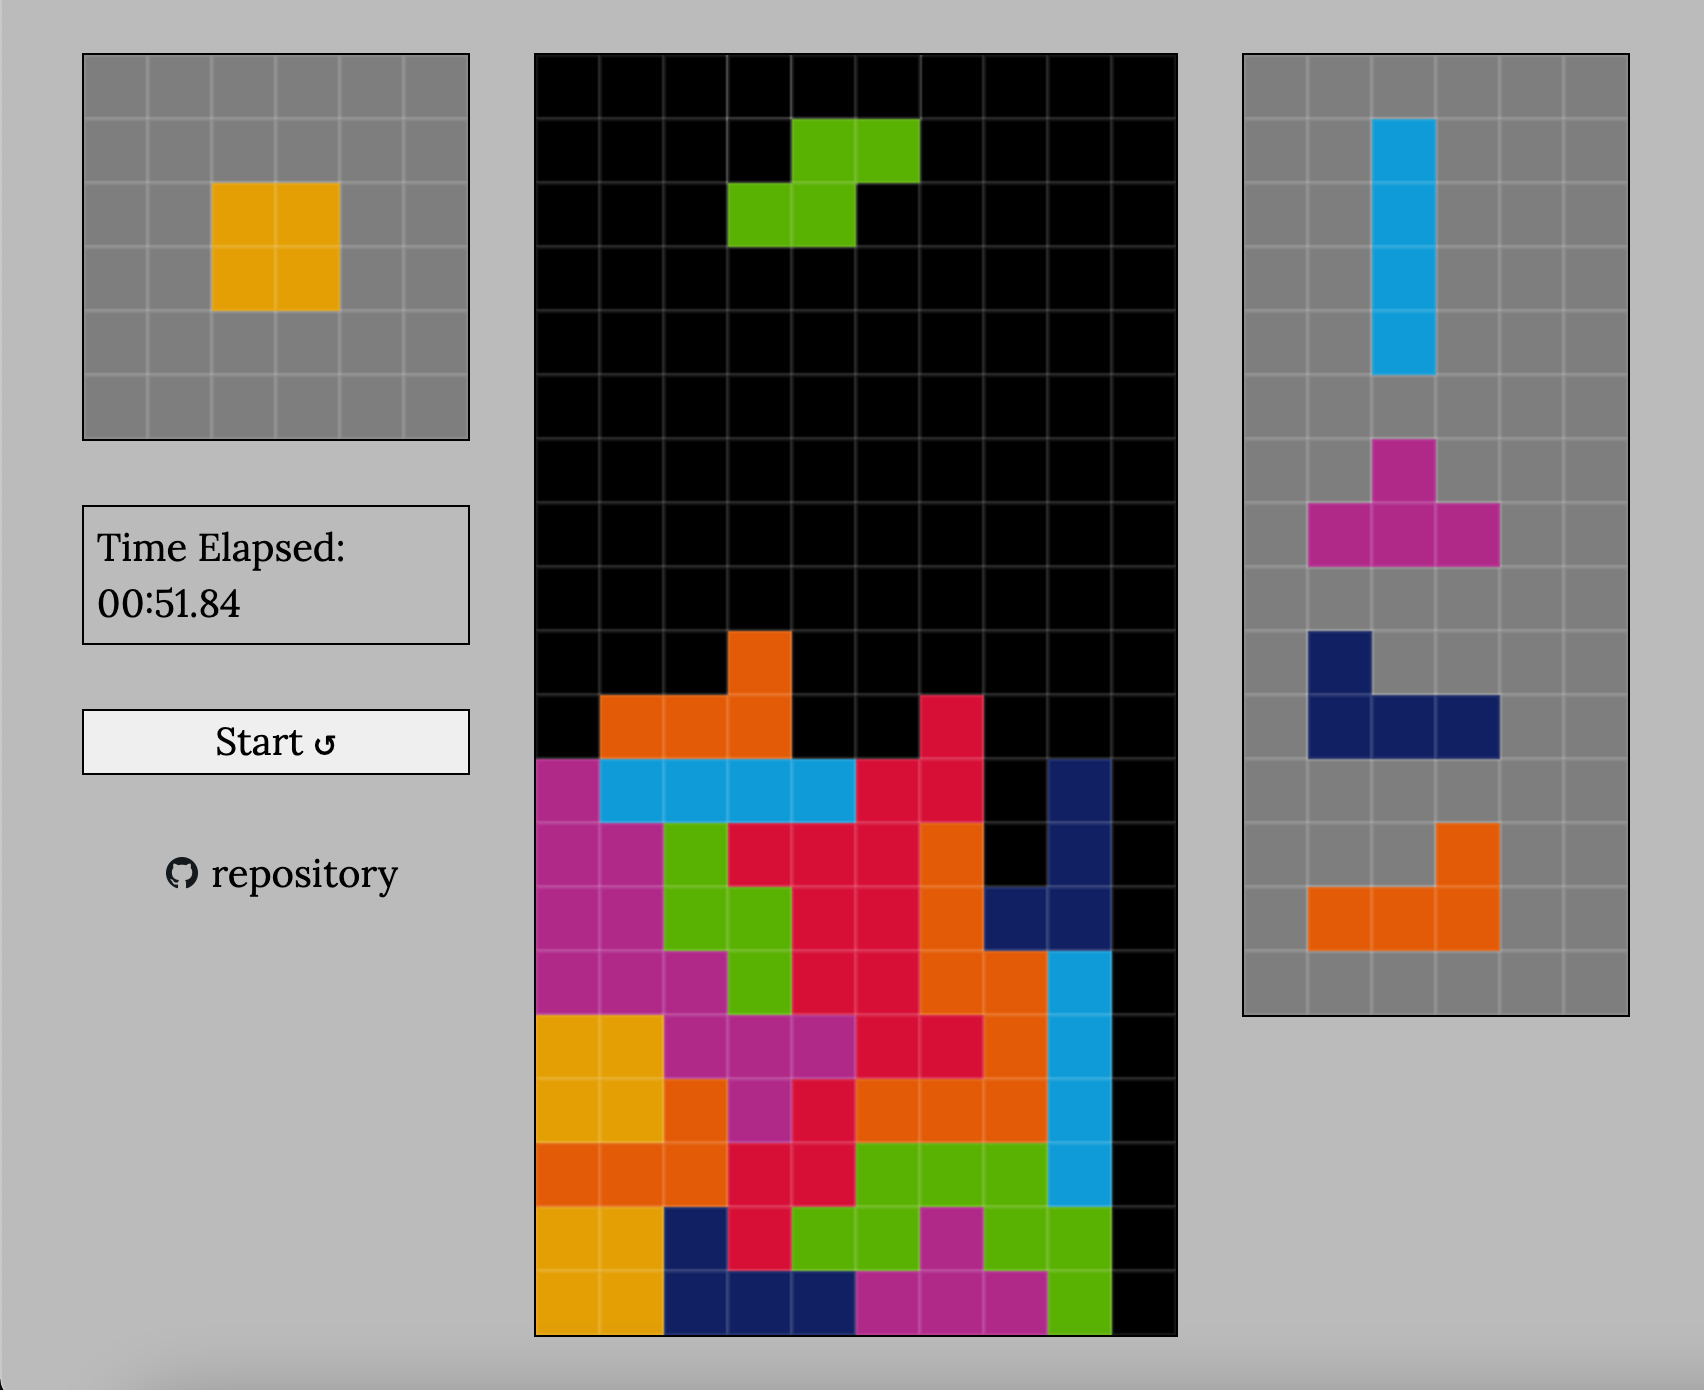
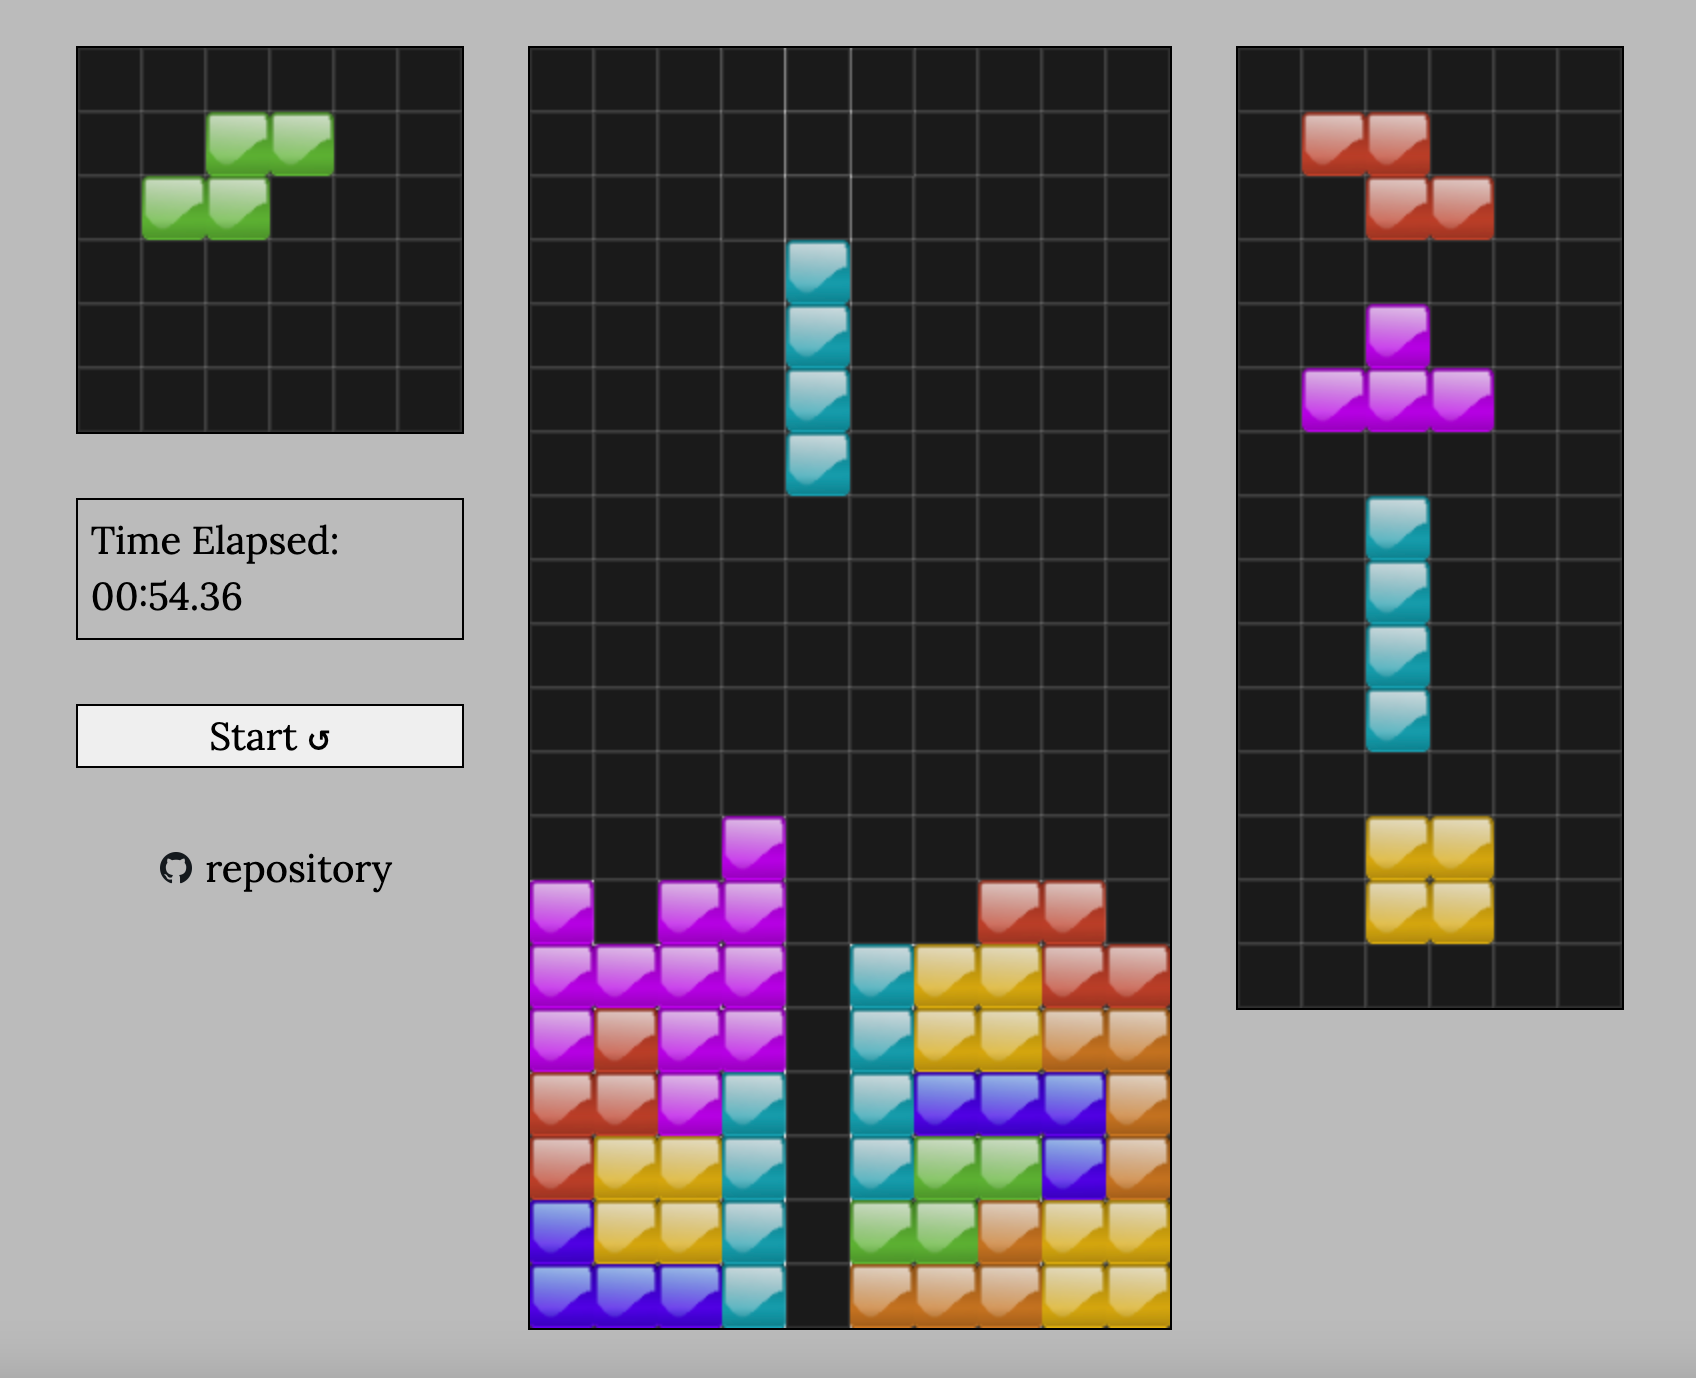
New Theme & Lockdown Timer

diff --git a/src/include/Tetrimino.ts b/src/include/Tetrimino.ts
@@ -2,6 +2,13 @@ import { Unit } from '../Tetriminoes';
 import drawBox from "./drawBox";
 import Game from "./Game";
 
+enum Collision{
+    NIL,
+    WALL_COLLISION,
+    FLOOR_COLLISION,
+    PIECE_COLLISION
+}
+
 class Tetrimino{
     matrix: Unit[][];
     color: string;
@@ -12,6 +19,11 @@ class Tetrimino{
 
     fall: undefined | number;
     softDropMode: boolean = false;
+    lockdownTimer: undefined | number;
+    lockdownMoves: number = 0;
+
+
+    static readonly MAX_LOCKDOWN_MOVES: number = 20;
     static readonly SOFT_DROP_SPEED: number = 0.01;
     static readonly FREEFALL_SPEED: number = 0.5;
 
@@ -37,15 +49,8 @@ class Tetrimino{
                 r[i][j] = this.matrix[this.N - 1 - j][i];
             }
         }
-        for(let i = 0; i < 3 && this.detectCollision(0, 0, r); i++){
-            if(this.x > (this.parentGame.columns/2)){
-                this.moveLeft();
-            }else if(this.x < (this.parentGame.columns/2)){
-                this.moveRight();
-            }
-            if(this.y + this.N >= this.parentGame.rows){
-                this.moveUp();
-            }
+        if(this.detectCollision(0,0,r)){
+            return this;
         }
         this.matrix = Array.from(r, t => [...t]);
         return this;
@@ -57,15 +62,8 @@ class Tetrimino{
                 r[i][j] = this.matrix[j][this.N - 1 - i];
             }
         }
-        for(let i = 0; i < 3 && this.detectCollision(0, 0, r); i++){
-            if(this.x > (this.parentGame.columns/2)){
-                this.moveLeft();
-            }else if(this.x < (this.parentGame.columns/2)){
-                this.moveRight();
-            }
-            if(this.y + this.N >= this.parentGame.rows){
-                this.moveUp();
-            }
+        if(this.detectCollision(0,0,r)){
+            return this;
         }
         this.matrix = Array.from(r, t => [...t]);
         return this;
@@ -134,6 +132,9 @@ class Tetrimino{
         }
     };
     hardDrop() : void{
+        if(this.lockdownTimer){
+            return;
+        }
         if(this.fall){
             window.cancelAnimationFrame(this.fall);
             this.fall = undefined;
@@ -147,7 +148,9 @@ class Tetrimino{
         this.y += i-1;
         this.lockTetrimino();
     };
-    varticalFall() : void{
+    verticalFall() : void{
+        this.clearLockdownTimer();
+        this.haltVerticalFalling();
         let start: number, currTime, lastTime = 0;
         const drop: FrameRequestCallback = (now: number) => {
             if(!start){ start = now; }
@@ -158,7 +161,10 @@ class Tetrimino{
                     this.erase().y++;
                     this.render();
                 }else{
-                    this.lockTetrimino();
+                    this.lockdownTimer = window.setTimeout(() => {
+                        this.lockTetrimino();
+                    }, 1000)
+                    this.lockdownMoves++;
                     return;
                 }
             }
@@ -166,13 +172,41 @@ class Tetrimino{
         };
         this.fall = window.requestAnimationFrame(drop);
     };
-    haltVerticalFalling(){
+    resetLockdownTimer() : void{
+        if(this.lockdownTimer == undefined){
+            return;
+        }
+        clearTimeout(this.lockdownTimer);
+        if(!this.detectCollision(0, 1)){
+            this.erase().y++;
+            this.render();
+            this.verticalFall();
+            this.lockdownTimer == undefined;
+            return;
+        }
+        if(this.lockdownMoves >= Tetrimino.MAX_LOCKDOWN_MOVES){
+            this.lockTetrimino();
+            this.lockdownMoves = 0;
+            return;
+        }
+        this.lockdownMoves++;
+        this.lockdownTimer = window.setTimeout(() => {
+            this.lockTetrimino();
+        }, 1000)
+    };
+    clearLockdownTimer() : void{
+        if(this.clearLockdownTimer != undefined){
+            window.clearTimeout(this.lockdownTimer);
+        }
+    };
+    haltVerticalFalling() : void{
         if(this.fall){
             window.cancelAnimationFrame(this.fall);
             this.fall = undefined;
         }
     };
-    detectCollision(dx: number, dy: number, dt: Unit[][] = this.matrix) : boolean{
+    detectCollision(dx: number, dy: number, dt: Unit[][] = this.matrix) : Collision{
+        let {NIL, FLOOR_COLLISION, WALL_COLLISION, PIECE_COLLISION} = Collision;
         // new cordinates
         let x = this.x + dx;
         let y = this.y + dy;
@@ -181,20 +215,20 @@ class Tetrimino{
             for(let j = x; j < x+this.N; j++){
                 if(dt[i-y][j-x] != Unit.V){
                     if(i >= this.parentGame.rows){
-                        return true;
+                        return FLOOR_COLLISION;
                     }
                     if(j >= this.parentGame.columns || j <= -1){
-                        return true;
+                        return WALL_COLLISION;
                     }
                     if(i >= 0){
                         if(this.parentGame.gridMatrix[i][j] != Unit.V){
-                            return true;
+                            return PIECE_COLLISION;
                         }
                     }
                 }
     
             }
-        return false;
+        return NIL;
     };
     erase(ctxS: string = `main`) : Tetrimino{
         let ctx = this.ctx(ctxS);

diff --git a/src/include/Game.ts b/src/include/Game.ts
@@ -29,10 +29,8 @@ export default class Game {
     holdingDisabled: boolean = false;
     running: boolean = false;
 
-    // static readonly MAX_TETRIMINO_HISTORY: number = 8;
     static readonly NEXT_TETRIMINOES_COUNT: number = 4;
     static readonly VACANT: string = `black`;
-    static readonly SECONDARY_VACANT: string = `rgb(126, 126, 126)`;
 
     constructor(UI: {mainCanvas: HTMLCanvasElement, holdCanvas: HTMLCanvasElement, nextCanvas: HTMLCanvasElement, statsBoard: HTMLDivElement}, columns: number, rows: number, size: number){
         this.mainCanvas = UI.mainCanvas;
@@ -85,7 +83,7 @@ export default class Game {
     renderHoldCanvas() : void{
         for(let i = 0; i < 6; i++){
             for(let j = 0; j < 6; j++){
-                drawBox(this.holdCtx, j, i, this.size, Game.SECONDARY_VACANT);
+                drawBox(this.holdCtx, j, i, this.size, Game.VACANT);
             }
         }
         if(this.tetriminoOnHoldUnit != undefined){
@@ -102,7 +100,7 @@ export default class Game {
         }
         for(let i = 0; i < 15; i++){
             for(let j = 0; j < 6; j++){
-                drawBox(this.nextCtx, j, i, this.size, Game.SECONDARY_VACANT);
+                drawBox(this.nextCtx, j, i, this.size, Game.VACANT);
             }
         }
         let t;
@@ -152,14 +150,15 @@ export default class Game {
     };
     holdTetrimino() : void{
         if(this.holdingDisabled == false){
-            if(this.tetriminoOnHoldUnit){
+            if(this.tetriminoOnHoldUnit != undefined){
                 this.activeTetrimino.erase().haltVerticalFalling();
+                this.activeTetrimino.clearLockdownTimer();
                 let temp = this.activeTetriminoUnit;
                 this.activeTetriminoUnit = this.tetriminoOnHoldUnit;
                 this.tetriminoOnHoldUnit = temp;
                 let { matrix, color } = data.tetriminoes[this.activeTetriminoUnit-1];
                 this.activeTetrimino = new Tetrimino(matrix, color, this);
-                this.activeTetrimino.varticalFall();
+                this.activeTetrimino.verticalFall();
             }else{
                 this.activeTetrimino.erase().haltVerticalFalling();
                 this.tetriminoOnHoldUnit = this.activeTetriminoUnit;
@@ -200,13 +199,13 @@ export default class Game {
         this.renderNextCanvas();
         this.renderHoldCanvas();
         this.initTimer();
-        this.activeTetrimino.varticalFall();
+        this.activeTetrimino.verticalFall();
     };
     next() : void{
         this.holdingDisabled = false;
         this.setActiveTetrimino();
         this.renderNextCanvas();
-        this.activeTetrimino.varticalFall();
+        this.activeTetrimino.verticalFall();
     };
     render() : void{
         for(let i = 0; i < this.rows; i++){

diff --git a/src/include/drawBox.ts b/src/include/drawBox.ts
@@ -1,7 +1,29 @@
+interface IHash {
+    [details: string] : any;
+} 
+
+const box: IHash = {
+    "black" : require('../assets/black.png'),
+    "blue" : require('../assets/blue.png'),
+    "cyan" : require('../assets/cyan.png'),
+    "green" : require('../assets/green.png'),
+    "orange" : require('../assets/orange.png'),
+    "purple" : require('../assets/purple.png'),
+    "red" : require('../assets/red.png'),
+    "yellow" : require('../assets/yellow.png')
+}
+let piece = new Image();
+
 export default function drawBox(ctx: CanvasRenderingContext2D, x: number, y: number, size: number, color: string) : void{
-    ctx.fillStyle = color;
-    ctx.fillRect(x*size, y*size, size, size);
-    ctx.lineWidth = 0.1;
-    ctx.strokeStyle = "white";
-    ctx.strokeRect(x*size, y*size, size, size);
+    if(color == `black`){
+        ctx.fillStyle = `rgb(26,26,26)`;
+        ctx.fillRect(x*size, y*size, size, size);
+        ctx.lineWidth = 0.1;
+        ctx.strokeStyle = "white";
+        ctx.strokeRect(x*size, y*size, size, size);
+    }else{
+        let c = box[color].replace(/^public/, "");
+        piece.src = c;
+        ctx.drawImage(piece, x*size, y*size, size, size);
+    }
 };

diff --git a/src/main.ts b/src/main.ts
@@ -37,12 +37,15 @@ document.addEventListener('keydown', e => {
     switch(e.keyCode){
         case LEFT:
             game.activeTetrimino.erase().moveLeft().render();
+            game.activeTetrimino.resetLockdownTimer();
             break;
         case UP:
             game.activeTetrimino.erase().rotateRight().render();
+            game.activeTetrimino.resetLockdownTimer();
             break;
         case RIGHT:
             game.activeTetrimino.erase().moveRight().render();
+            game.activeTetrimino.resetLockdownTimer();
             break;
         case DOWN:
             game.activeTetrimino.setSoftDropMode(true);
@@ -52,9 +55,11 @@ document.addEventListener('keydown', e => {
             break;
         case Z:
             game.activeTetrimino.erase().rotateLeft().render();
+            game.activeTetrimino.resetLockdownTimer();
             break;
         case A:
             game.activeTetrimino.erase().rotate180().render();
+            game.activeTetrimino.resetLockdownTimer();
             break;
         case C:
             game.holdTetrimino();

diff --git a/src/Tetriminoes.ts b/src/Tetriminoes.ts
@@ -37,13 +37,13 @@ const O = [
     [0,0,0,0]
 ];
 const tetriminoes = [
-    { matrix: T, color: "rgb(176, 41, 138)" },
-    { matrix: S, color: "rgb(89, 177, 2)" },
-    { matrix: Z, color: "rgb(215, 15, 55)" },
-    { matrix: L, color: "rgb(227, 91, 5)" },
-    { matrix: J, color: "rgb(17, 32, 99)" },
-    { matrix: I, color: "rgb(14, 155, 215)" },
-    { matrix: O, color: "rgb(227, 159, 4)" }
+    { matrix: T, color: "purple" },
+    { matrix: S, color: "green" },
+    { matrix: Z, color: "red" },
+    { matrix: L, color: "orange" },
+    { matrix: J, color: "blue" },
+    { matrix: I, color: "cyan" },
+    { matrix: O, color: "yellow" }
 ];
 export const data = {
     T,S,Z,L,J,I,O,

diff --git a/webpack.config.js b/webpack.config.js
@@ -8,6 +8,17 @@ module.exports = {
                 test: /\.ts$/, 
                 use: `ts-loader`,
                 include: [path.resolve(__dirname, `src`)]
+            },
+            {
+                test: /\.png$/, 
+                use: [
+                    {
+                        loader: 'file-loader',
+                        options: {
+                            esModule: false,
+                        },
+                    },
+                ],
             }
         ]
     },

diff --git a/public/index.html b/public/index.html
@@ -4,7 +4,7 @@
     <meta charset="UTF-8">
     <meta http-equiv="X-UA-Compatible" content="IE=edge">
     <meta name="viewport" content="width=device-width, initial-scale=1.0">
-    <title>Document</title>
+    <title>Typescript Tetris</title>
     <link rel="stylesheet" href="styles.css"></link>
     <script defer src="./bundle.js"></script>
 </head>

diff --git a/global.d.ts b/global.d.ts
@@ -1,0 +1,4 @@
+declare module "*.png" {
+    const content: any;
+    export default content;
+}
